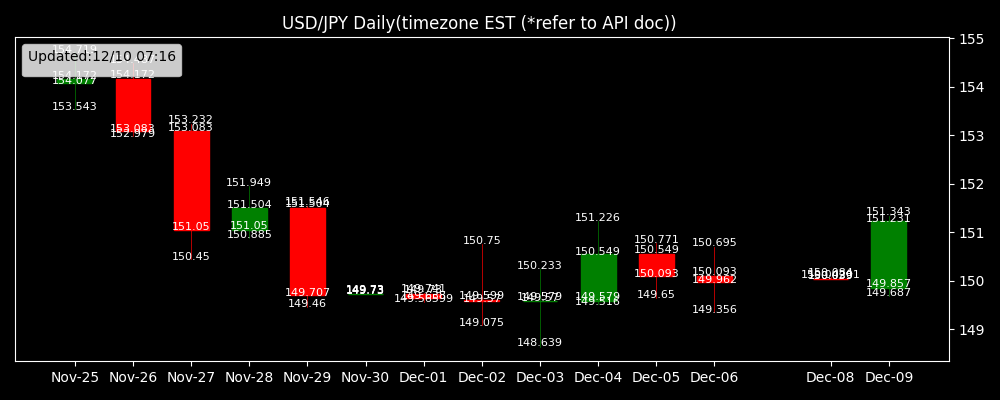
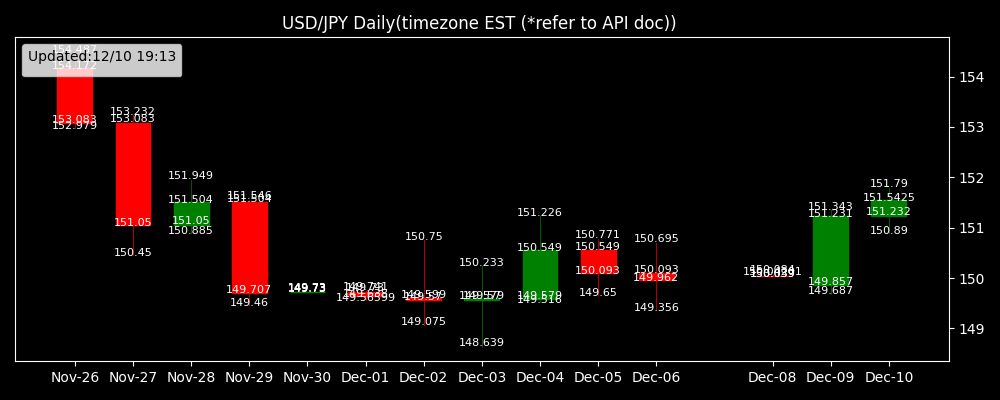
deploy: 12514c7b17672b96d38d9259b52cdcbab1578056

diff --git a/docs/src/dashboard/marketinfo.html b/docs/src/dashboard/marketinfo.html
@@ -14,14 +14,14 @@
     </style>
 </head>
 <body>
-    <h3> 概況 (更新： 12/10 07:16 ) </h3>
-    <p>最近の為替データを振り返ると、全体的に円が対ドルで増減を繰り返している様子がうかがえる。
+    <h3> 概況 (更新： 12/10 19:13 ) </h3>
+    <p>最近の為替の動向を見ると、ドル/円は一貫して変動しており、特に12月に入ってからは上昇傾向が見られるようです。11月末日からのトレンドを見ると、11月26日から12月10日にかけて、ドル/円は概ね149円台後半から151円台へと上昇していることが確認できます。 
 
-過去数週間では、11月末にドル円が153円を超える場面が見られたが、その後12月初めにかけて円高が進み、149円台まで下落する軟調な展開が続いている。一時的な上昇が12月4日から5日に見られたが、再び下落に転じている。12月8日は取引がなく、最後の動きとして観測できるのは12月9日の取引で151円台に戻している。
+12月10日には高値151.79円、終値151.5425円と、前日比でわずかに上昇しています。12月8日は取引がほとんどなく、前後の日と比較しても異例の静けさが見えます。11月29日から12月4日までは、特にボラティリティの高い状況が続いていたことも読み取れ、149円から151円前後で激しく変動しています。
 
-市場では、アメリカの金利政策や日銀の金融政策に関する憶測が影響を与えていると考えられる。特に、アメリカ経済指標が発表される際には、それが為替レートに与える影響が無視できない。また、投資家のリスクオフ姿勢により、円が一時的に安全資産としての需要を受けて買われた可能性もある。
+また、この期間の中で特に注目なのは、12月5日の出来高が突出して高かったことです。これがどのようなニュースや経済指標によるものか、例えば米国の経済指標の発表や日本の金融政策の影響があったのかもしれないと考えられます。
 
-今後の動向としては、米国の経済指標や政策変更、日本の金融政策決定会合の結果などが鍵になる可能性がある。市場の不確実性が高まっている中で、投資家は慎重な姿勢を維持しつつ、動向を注視することが求められるかもしれない。</p>
+全体として、年末にかけて円安ドル高の傾向が強まっている可能性が指摘できますが、これが継続するかは不確定要素が多く、引き続き関連ニュースや経済指標に注目する必要があります。</p>
 
     <p>Text generated from ChatGPT API.</p>
 

diff --git a/docs/src/dashboard/forecast_text.html b/docs/src/dashboard/forecast_text.html
@@ -6,17 +6,9 @@
 </head>
 <body>
     <h3>今日の天気 (12-10 Tue)</h3>
-    <p>こんにちは！2024年12月10日の東京の天気予報をお伝えします。
+    <p>12月10日の東京の天気は、おおむね晴れです。気温は朝の最低気温が約5.2℃、日中の最高気温が約12.4℃となるでしょう。降水は予想されていません。
 
-- **天気**: 一日を通してほぼ晴れとなり、午前中は少し曇る時間もありますが、雨の心配はありません。
-- **気温**: 朝は6.2°Cからスタートし、日中は11.6°Cまで上昇します。その後、夜にかけて再び7.5°Cまで下がります。
-- **日照時間**: 約8時間51分です。
-- **最大UV指数**: 3.25です。
-
-**日傘が必要かどうかについて**:
-- 最大UV指数が3.25なので、外出時に日傘を使うと良いでしょう。特に、日中の紫外線対策に役立ちます。
-
-寒さ対策と紫外線対策をしっかりして、良い一日をお過ごしください！</p>
-    (更新：12/10 07:16)
+日照時間は約8.8時間（31874秒）で、UV指数は最大で3.25となっています。UV指数が3を超えると、紫外線による影響を考慮したほうが良いとされますので、日傘や日焼け止めを使用するのが良いでしょう。</p>
+    (更新：12/10 19:13)
 
 </html>
